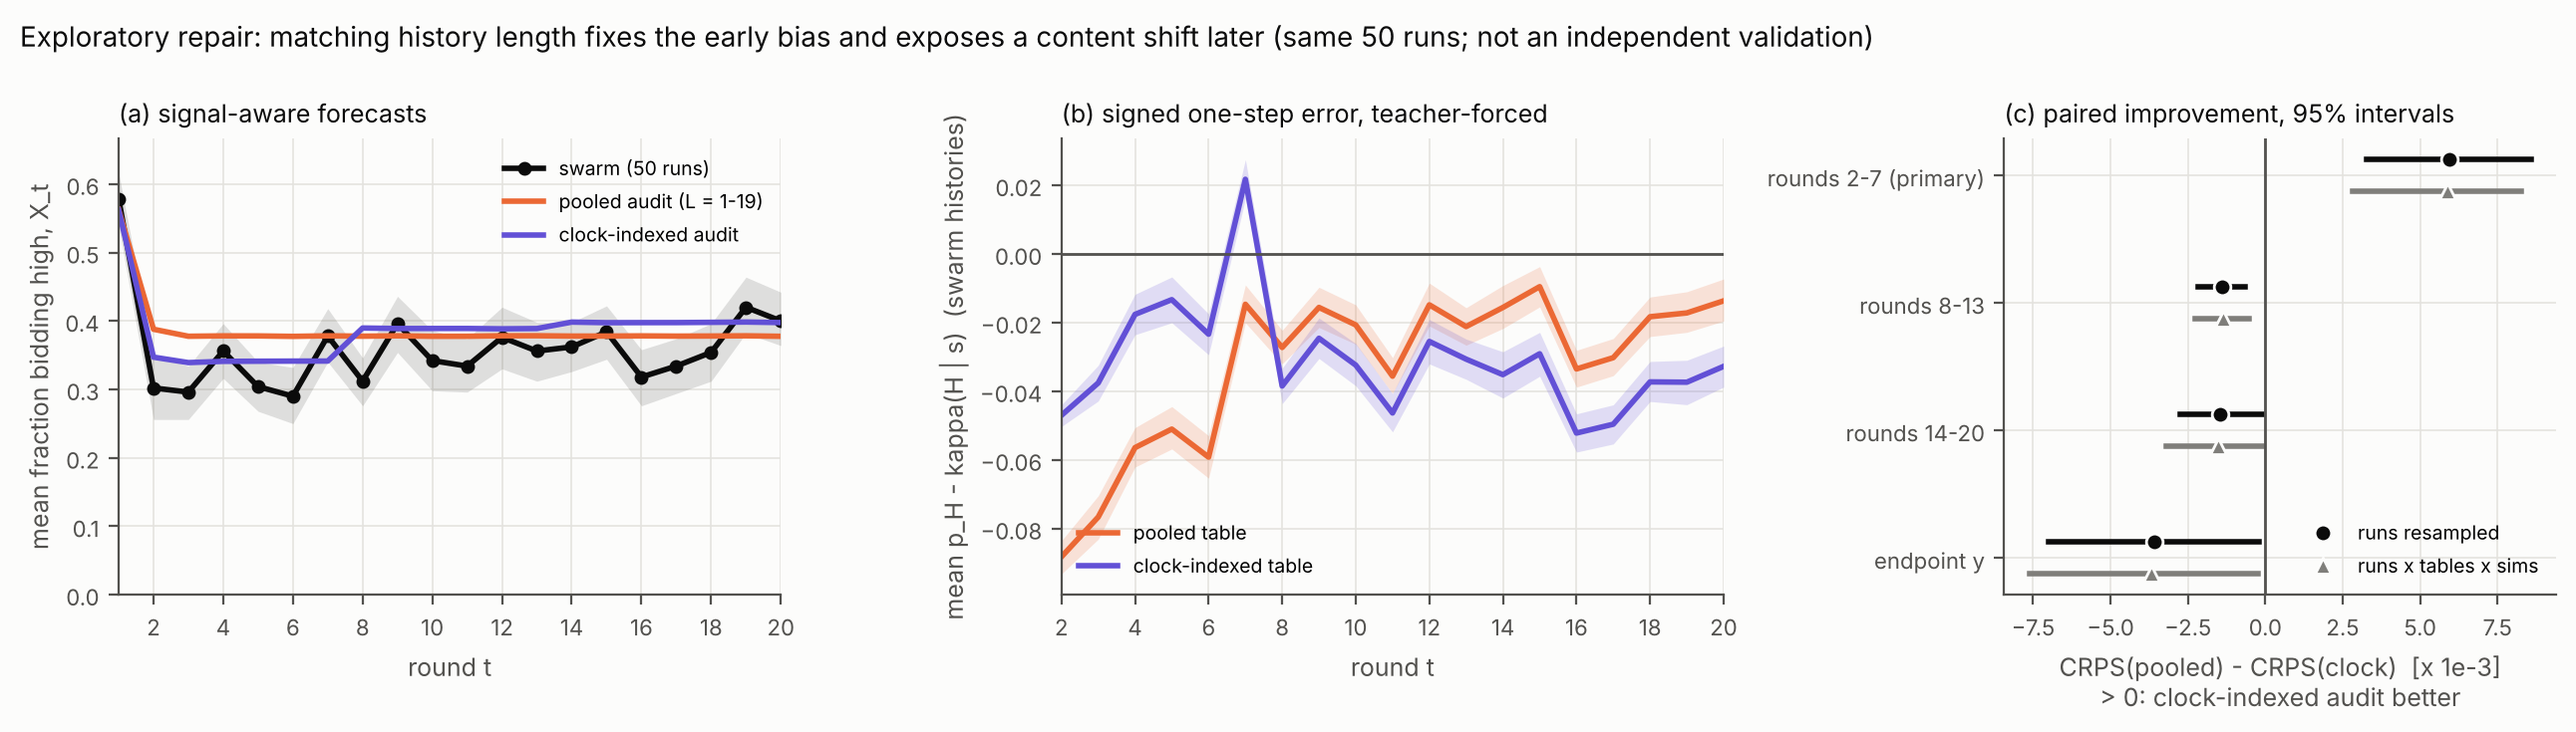
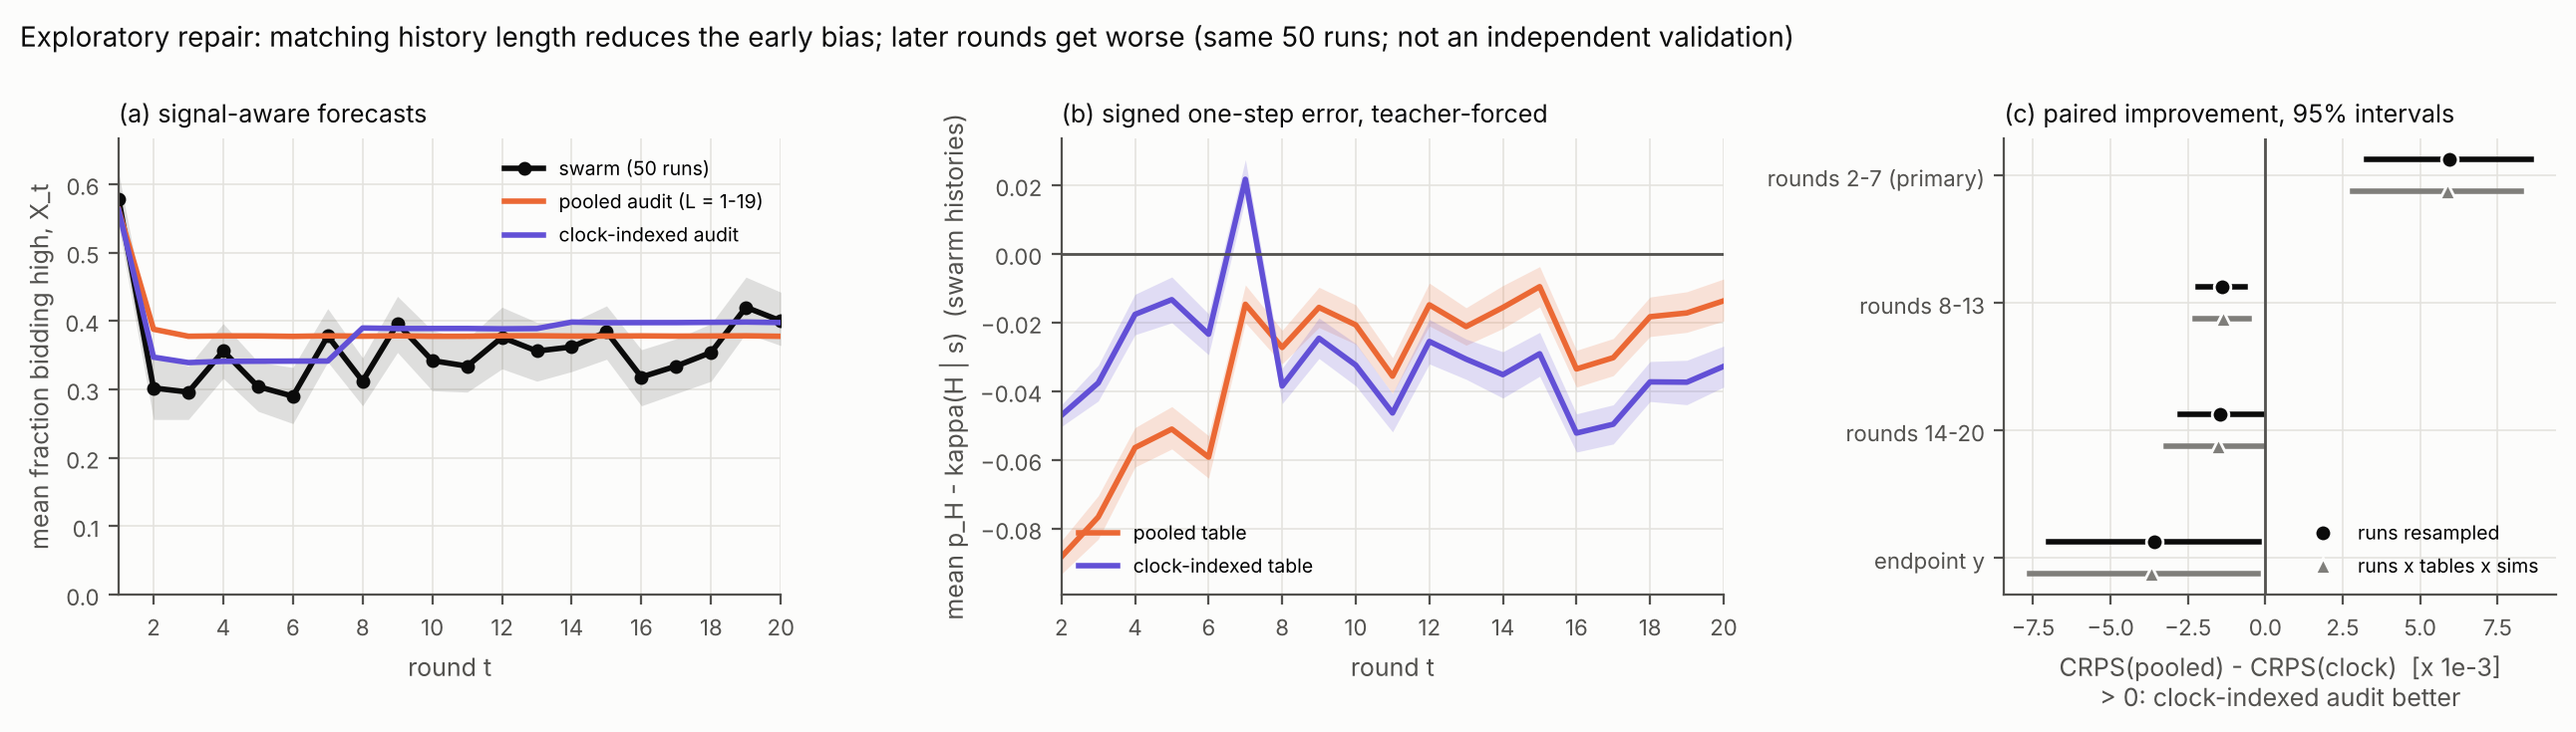
Codex review M4: qualify the late-round explanation as consistent with content shift, not established
The clock audit changes only length conditioning; no content intervention was run. Reworded
the summary, report insert and Figure 3 title. Fitting variance is now separated from
misspecification: the late deterioration holds in all 200 table resamples. This corrects the
wording of commit 5bdd9f3's message.

Claude-Session: https://claude.ai/code/session_01Tgu7LKWeoJfS29bHpgPVaD

Changed region(s): [[0.2167, 0.0299, 0.743, 0.0898]]

diff --git a/scripts/followup_core_figures.py b/scripts/followup_core_figures.py
@@ -183,8 +183,8 @@ def figure3() -> None:
     c_.legend(frameon=False, fontsize=7, loc="lower right")
     c_.set_title("(c) paired improvement, 95% intervals", fontsize=9, color=INK, loc="left")
     _int_rounds(a, b)
-    fig.suptitle("Exploratory repair: matching history length fixes the early bias and exposes a "
-                 "content shift later (same 50 runs; not an independent validation)",
+    fig.suptitle("Exploratory repair: matching history length reduces the early bias; later rounds get "
+                 "worse (same 50 runs; not an independent validation)",
                  fontsize=10, color=INK, x=0.01, ha="left")
     fig.tight_layout()
     save(fig, "fig3_clock_audit")

diff --git a/results/followup/core/codex_review_response.md b/results/followup/core/codex_review_response.md
@@ -12,6 +12,7 @@ invalidation.
 | **M1** Monte Carlo error is material for the primary contrast; the `stats.py` docstring calls it negligible | core | **yes**: our C1 batches show the same thing (SD 7.8e-5 over 10 batches, against \|D\| = 8.6e-5) | Already handled by C1: the pre-set precision run gives −0.000085 [−0.000225, +0.000054], and the nested interval is reported separately. The docstring is corrected in `swarm_audit/stats.py` (comment only, no behaviour change). A **post-review, disclosed** 30-batch check (`uncertainty_mc30.json`) gives MC SD 7.1e-5 against Codex's 5.4e-5 (20 batches) and our 7.8e-5 (10 batches). The table-only SD of the endpoint D is therefore poorly determined: about 0 (10 batches), 2.7e-5 (30 batches) or 5.8e-5 (Codex). We do not claim it is negligible. The endpoint conclusion is unchanged. |
 | **M2** `is_primary_contrast` is true for the exploratory OLMo arm 91 | core code; the affected file is the extra arm's | **yes**: `analysis.py` tested only channel, n, graph and memory; OLMo's saved analysis has the flag true | **Fixed:** `analysis.is_primary` now also requires the frozen arm `("core_cheap_talk", 6)`. A test is in `tests/test_followup_core.py`. Llama arm 6 is still true; OLMo arm 91 and n = 20 are false. The extra arm's saved file is not ours to rewrite (the review posted this on PR 9). Every combined table here labels OLMo exploratory. |
 | **M3** The theorem's proof and scope must accompany the paper; corrections to the setup-paper text | report authors | not re-derived here | `setup-paper/` and `report/` belong to the authors. We pass on `review-codex/independent/theory_review.md` and the wording fixes. Our follow-up already calls B_t "an estimate, not a certificate". |
+| **M4** (01:26 refresh) The summary states the late error as a content effect; no content intervention was run | core | **yes** | Reworded in `summary.md`, `report_insert.md` and the Figure 3 title: the residual is *consistent with* content shift and the cause is not established. Fitting variance and population misspecification are now separated: the late deterioration holds in all 200 table resamples, so it is not fitting noise. The C2 commit message (`5bdd9f3`) said "the late failure is content, not estimation variance". Commits are not rewritten, so this row is the correction. |
 | m1 First-entry vs every-entry diagnostic (`extra_followup_exact.py`) | extra arm | not ours | none (impact ≤ 2e-6 per the review) |
 | m2 Stale status text in `results/README.md` and `results/validation.md` | core | **yes** | Updated with the core completion note (after the remaining GPU runs). |
 | m3 Payoff and motivation wording; an unverifiable Greenblatt quote | report authors | n/a | Passed on. Do not use the quote unless verified. |
@@ -26,3 +27,7 @@ Independent agreement worth recording (no action needed):
   [−0.00047, +0.000086].
 - **OLMo round-3 X.** The review gives 0.340 / 0.352 forecast against 0.136 observed,
   matching ours.
+- **C2 clock audit (Codex final refresh, 200k paths).** Codex's own block fitting gives an
+  early gain of +0.005976 [+0.003327, +0.008544] against our +0.005962, and an endpoint gain
+  of −0.003581 against our −0.003587. The rounds 8–13 point estimates differ by 2.3 combined
+  MC SE, so the agreement is distributional, not bitwise. The signed errors match exactly.

diff --git a/results/followup/core/summary.md b/results/followup/core/summary.md
@@ -84,7 +84,7 @@ detectably. The sign of D is not established.
 - **It fails later on Llama.** Rounds 8–13: −0.0014 [−0.0022, −0.0006]. Rounds 14–20:
   −0.0015 [−0.0028, −0.0001]. Endpoint: **−0.0036 [−0.0070, −0.0002]**. The late
   teacher-forced bias grows to −0.039, against −0.020 for the pooled table.
-- **Why, most likely: content shift.** Swarm histories before the last round contain about
+- **A candidate explanation: content shift (not tested).** Swarm histories before the last round contain about
   35% high bids (Llama, rounds 8–20). p_test uses 50% by construction. Long synthetic
   histories therefore push P(high) up more than real ones.
 - **Reading.** The pooled audit's adequate late-round fit is consistent with two errors
@@ -108,11 +108,17 @@ round 2. Size, degree and topology all change at once, so this is not a size con
   condition.
 - The OLMo analyses reuse the extra arm's runs and tables. They are not an independent
   OLMo study.
-- Clock conditioning does not address history-content shift. A content-matched audit (for
-  example, synthetic histories whose bid rate follows the forecast) is the obvious next test.
-- No new GPU histories were collected for C2. The late failure is a content effect, which
-  more histories of the same p_test would not fix. The early gain is outside the
-  table-resampling interval.
+- **The cause of the late error is not established.** Clock conditioning changes only
+  history-length conditioning. The late deterioration is **consistent with** a
+  history-content shift, but no controlled content intervention was run. A length-matched
+  content intervention, or fresh predictive validation, would test it. The early
+  improvement is supported as an operational result; the causal attribution of the
+  remaining error is not (Codex review M4).
+- No new GPU histories were collected for C2. More histories from the same p_test would
+  reduce fitting variance, but they cannot correct a misspecified history population, if
+  that is the problem. Fitting variance does not explain the late deterioration: it holds
+  in every table resample (0 of 200 favour the clock audit in rounds 8–13 or at the
+  endpoint). The early gain is also outside the table-resampling interval.
 - The related-work check could not read full texts (`related_work.md`).
 - The toy procurement game exposes an audit failure mode. It is not a detector of real-world
   collusion, and high bidding alone does not show intentional coordination.

diff --git a/results/followup/core/report_insert.md b/results/followup/core/report_insert.md
@@ -67,7 +67,7 @@ In the extra arm's OLMo-3-7B runs every run ends all-low, so the endpoint cannot
 discriminate. The swarm still converges much faster than forecast: by round 5 only 20% of
 runs lack consensus, against 71% forecast.
 
-**History length explains most of the early bias; content explains the rest (exploratory).**
+**History length explains most of the early bias; the rest is consistent with content shift (exploratory).**
 Matching the audit's history length to the round cuts the early teacher-forced bias by about
 two-thirds: from −0.058 to −0.020 for Llama, and from −0.047 to −0.016 for OLMo. Early-round
 CRPS improves by +0.0060 (+0.0033 to +0.0086) for Llama and by +0.041 (+0.029 to +0.051) for
@@ -75,10 +75,12 @@ OLMo (Figure 3).
 
 The repair is not uniformly better. For Llama it is worse in rounds 8–13 and 14–20, and at
 the endpoint (−0.0036; −0.0070 to −0.0002). Its late teacher-forced bias grows to −0.039,
-against −0.020 for the pooled audit. The likely reason is a shift in history content.
-Before the last round, the swarm's histories contain about 35% high bids, whereas the
-synthetic histories contain 50% by construction. Long synthetic histories therefore raise
-the model's propensity to bid high more than real histories do. The pooled audit's
+against −0.020 for the pooled audit. This residual is consistent with a shift in history
+content, although we did not test that cause directly. Before the last round, the swarm's
+histories contain about 35% high bids, whereas the synthetic histories contain 50% by
+construction. If longer high-bid-rich histories raise the model's propensity to bid high,
+the clock-indexed audit would over-predict late, as observed. The deterioration holds in
+every table resample, so it is not fitting noise. The pooled audit's
 acceptable late-round fit is consistent with these two errors offsetting each other; this is
 our interpretation, not a causal test.
 
